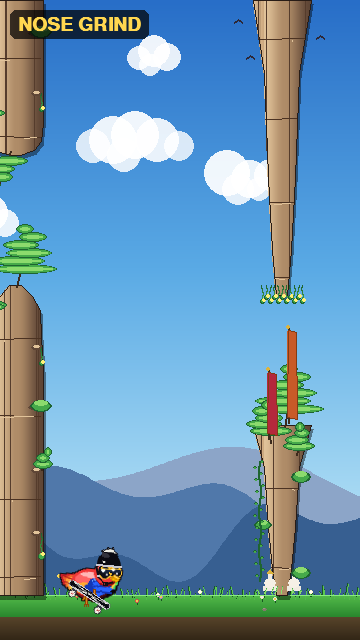
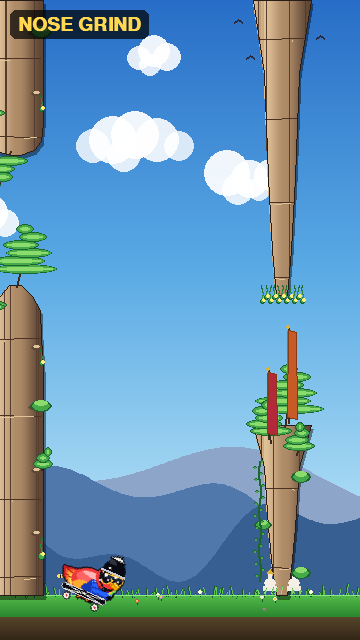
SKATEBOARD GRIND: revert to bird-tilts (±18°), keep wheel sparks
User feedback on the upright-bird + parrot-legs version: "It
looks weird so just fall back to lower tilt version, it looks
better there but still add the effect from wheels according
to grind type."

Reverts the two-tier change:
  - GRIND tilt back inside Bird.tilt_deg at ±18° (Pip + board
    tilt together as one rigid unit).
  - Removed the board-only tilt block from _draw_skateboard.
  - Removed _draw_grind_legs helper and its call site (the
    leg shapes looked awkward).

KEEPS the wheel-specific spark spray from the previous pass:
  - nose grind -> sparks at bird.x + 14 (front wheel)
  - tail grind -> sparks at bird.x - 14 (back wheel)

Changed region(s): [[0.1528, 0.8438, 0.3667, 0.9688]]

diff --git a/game/entities.py b/game/entities.py
@@ -804,9 +804,14 @@ class Bird:
         # Pip's pitch.
         t = max(-0.5, min(0.75, self.vy / 500.0))
         base = -t * 55.0
-        # GRIND tilt is applied ONLY to the board (inside
-        # _draw_skateboard) so Pip stays upright; tiny parrot legs
-        # render in the gap between his body and the tilted deck.
+        # GRIND: while a random grind is active, tilt Pip's whole
+        # body so it matches the board (nose down for a nose grind,
+        # nose up for a tail grind). ±18° was the version that
+        # "looked better" before the upright + parrot-legs detour.
+        if self.grind_type == "nose":
+            base += -18.0
+        elif self.grind_type == "tail":
+            base += 18.0
         # During a backflip, ride a full 360° rotation on top of the base
         # tilt. pygame's rotate is modulo-360 internally so values beyond
         # the normal clamp are fine.
@@ -999,13 +1004,6 @@ class Bird:
         # SKATEBOARD: parcel transforms into a tiny skateboard. The original
         # parcel hitbox is disabled in world.py for the duration.
         if self.skateboard_active:
-            # GRIND legs — small parrot-orange shins from Pip's
-            # underside down to the (tilted) board. Drawn BEFORE
-            # the board so the deck covers the bottom of the legs.
-            if self.grind_type is not None:
-                self._draw_grind_legs(surf,
-                                       self.x + shake_x,
-                                       self.y + shake_y)
             self._draw_skateboard(surf, self.x + shake_x, self.y + shake_y, flipped)
             return
         if self.kfc_active:
@@ -1287,37 +1285,6 @@ class Bird:
                                      int(cy + offset.y)))
         surf.blit(rotated, r.topleft)
 
-    def _draw_grind_legs(self, surf, cx, cy):
-        """Tiny parrot-leg "shins" connecting Pip's underside to
-        the tilted skateboard deck. Only drawn while a grind is
-        active. The board renders on top of the legs' lower ends
-        so the visual reads as "legs into the deck."
-
-        For a NOSE grind (nose-down on the right) the LEFT side has
-        a bigger Pip-to-deck gap, so the left leg is drawn longer.
-        For a TAIL grind it's mirrored."""
-        ORANGE = (220, 130, 30)
-        DARK   = (140,  70,  10)
-        leg_top_y = int(cy + 8)
-        # Per-side leg length picks up the slack from the 28° tilt.
-        if self.grind_type == "nose":
-            left_len, right_len = 16, 6
-        else:
-            left_len, right_len = 6, 16
-        for sign, length in ((-1, left_len), (+1, right_len)):
-            x = int(cx + sign * 4)
-            # Leg shank.
-            pygame.draw.rect(surf, ORANGE,
-                             (x - 1, leg_top_y, 3, length))
-            pygame.draw.rect(surf, DARK,
-                             (x - 1, leg_top_y, 3, length), 1)
-            # Tiny claw at the bottom — 3-toe parrot foot hint.
-            foot_y = leg_top_y + length - 1
-            for dx in (-2, 0, 2):
-                pygame.draw.line(surf, DARK,
-                                 (x + dx, foot_y),
-                                 (x + dx, foot_y + 2), 1)
-
     def _draw_skateboard(self, surf, cx, cy, flipped):
         """Skull skateboard under Pip's feet — black deck with a chrome
         outline, white skull centred, white crossbones diagonals. Cream
@@ -1417,13 +1384,6 @@ class Bird:
             p = 1.0 - self.heelflip_t / self.heelflip_dur
             eased = p * p * p * (p * (p * 6.0 - 15.0) + 10.0)
             tilt -= eased * 360.0
-        # GRIND — board-only tilt while one of the trucks is on
-        # the rail. Pip himself stays upright; the parrot-leg
-        # rendering below picks up the slack visually.
-        if self.grind_type == "nose":
-            tilt -= 28.0    # nose down → tail in the air
-        elif self.grind_type == "tail":
-            tilt += 28.0    # nose up → tail planted
         rotated = pygame.transform.rotate(board_surf, tilt)
         # POP SHUVIT — horizontal scale-X = cos(p·π) on top of
         # whatever rotation is in `rotated`. Board flattens edge-on
